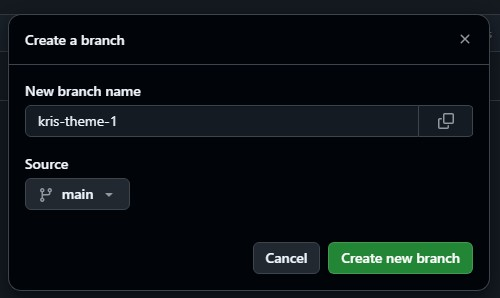
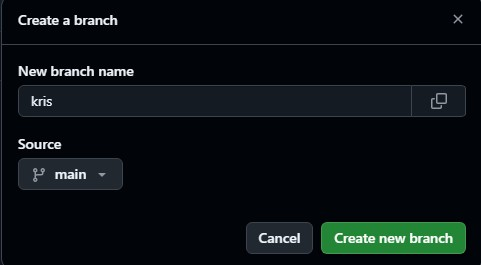
Modified README.md. Create a Theme Instalation section

Changed region(s): [[0.0, 0.0, 1.0, 0.9962], [0.2495, 0.6038, 0.2807, 0.6943], [0.9979, 0.9962, 1.0, 1.0]]

diff --git a/README.md b/README.md
@@ -2,6 +2,26 @@
 
 Welcome to Readme.md of DesignED team!
 
+# Creating and deleting branches
+
+1. On GitHub main page of the repository, click the main button and click view all branches.  
+   ![Main](./readme_img/1.jpg)
+
+2. Click New branch.  
+   ![New_Branch](./readme_img/2.jpg)
+
+3. Create a new branch. **When you create a new branch** please use this name convention _**yourname**_ (You can see the example on the image below)
+
+- Under the branch source - Select main.  
+  ![Naming_Convention](./readme_img/3.jpg)
+
+4. The branch created will show up at your branches and active branches. Click your branch (either are fine like the image below).  
+   ![Branches](./readme_img/4.jpg)
+
+5. Clone the whole Repo, and now you can work on the branch you just created.
+   <br>
+   <br>
+
 # Theme installation
 
 First, follow the document below.
@@ -15,6 +35,8 @@ First, follow the document below.
   ![Find 4](./readme_img/t4.jpg)
   ![Find 5](./readme_img/t5.jpg)
   ![Find 6](./readme_img/t6.jpg)
+
+> After you find this location, please follow the next step.
 
 # How to clone the repo and work on your branch
 
@@ -54,26 +76,6 @@ First, follow the document below.
 
 ![clone_vsc](./readme_img/13.jpg)
 
-# Creating and deleting branches
-
-1. On GitHub main page of the repository, click the main button and click view all branches.  
-   ![Main](./readme_img/1.jpg)
-
-2. Click New branch.  
-   ![New_Branch](./readme_img/2.jpg)
-
-3. Create a new branch. **When you create a new branch** please use this name convention yourname-theme-number of your iteration (You can see the example on the image below)
-
-- Under the branch source - Select main.  
-  ![Naming_Convention](./readme_img/3.jpg)
-
-4. The branch created will show up at your branches and active branches. Click your branch (either are fine like the image below).  
-   ![Branches](./readme_img/4.jpg)
-
-5. Clone the whole Repo and work on the branch you just created.
-   <br>
-   <br>
-
 # Commit, Push and Pull request
 
 <h3>1. Change the branch</h3>
@@ -93,7 +95,11 @@ First, follow the document below.
 
 ![switch branch](./readme_img/c3.jpg)
 
-<h3>2. Commit and push Using git cli</h3>
+> Now, you are working on your branch.
+
+<h3>2. Commit and push using git cli</h3>
+
+> After you've done with your portion of code, let's commit and push.
 
 - Open terminal in Visual Studio Code.
 
@@ -105,10 +111,36 @@ First, follow the document below.
 
 - type _**git commit -m "your comment"**_ to commit your code, in the double quotes, you can add the comment. The comment section should reflect on what you did.
 
-![git add](./readme_img/15-2.jpg)
+![git commit](./readme_img/15-2.jpg)
 
 - type _**git push**_ to push you code to the main branch
 
-![git add](./readme_img/15-3.jpg)
+![git pull](./readme_img/15-3.jpg)
 
-<h3>3. Commit and push Using git cli</h3>
+<h3>3. Create Pull requtest</h3>
+
+- Go to your branch in github browser.
+
+![pull request 1](./readme_img/16.jpg)
+
+- Click the following area.
+
+![pull request 2](./readme_img/17.jpg)
+
+- Click **'Create Pull Request'**
+
+![pull request 3](./readme_img/18.jpg)
+
+- Click **'Create Pull Request'** again
+
+![pull request 4](./readme_img/19.jpg)
+
+- Click **'Merge pull request'**
+
+![pull request 5](./readme_img/20.jpg)
+
+- Click **'Confirm Merge'**
+
+![pull request 3](./readme_img/21.jpg)
+
+> After this step, please let Kris know that you already created a pull request. Kris will review the code, solve merge conflicts and delete your branch
